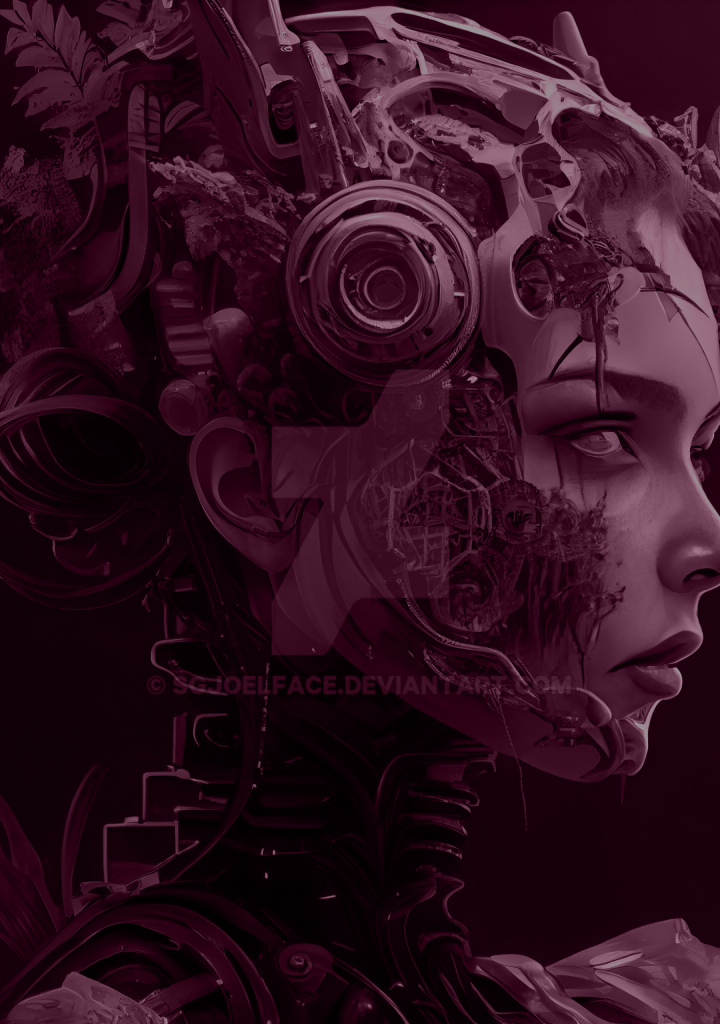
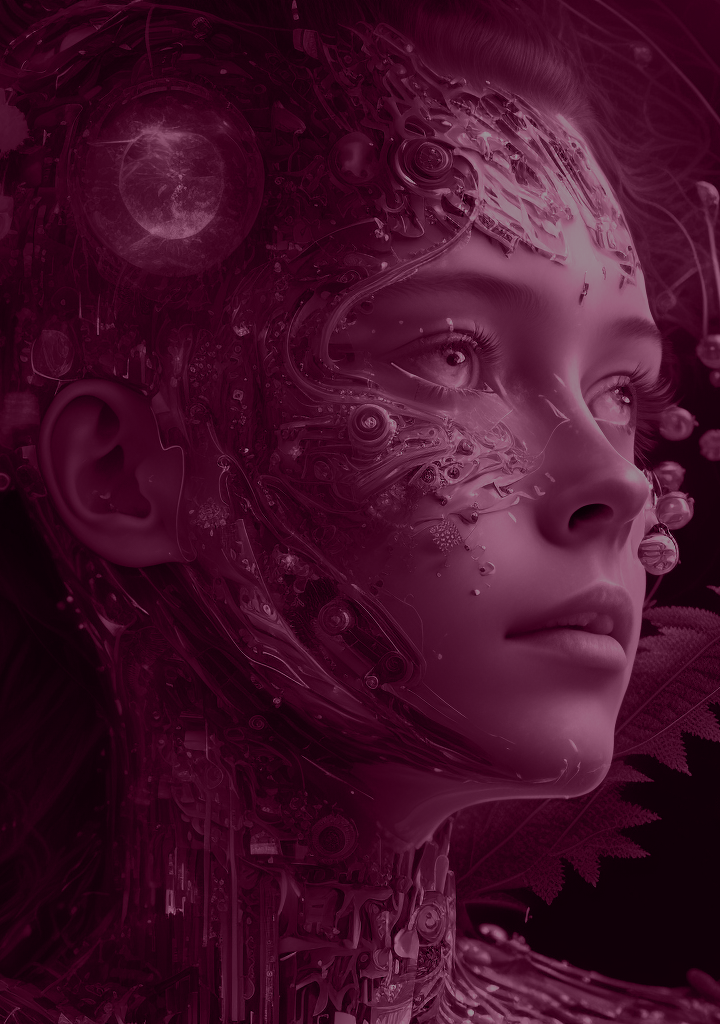
change bg img and fix navbar width in desktop

diff --git a/src/Sections/Hero/Hero.scss b/src/Sections/Hero/Hero.scss
@@ -22,10 +22,19 @@
     z-index: 10;
     margin-top: -9.9rem;
 
-    background-image: url("../../assets/images/hero__main__bg.png");
-    background-position: right bottom;
-    background-size: cover;
+    background-image: linear-gradient(0deg, rgba(0, 0, 0, 0.4), rgba(0, 0, 0, 0.4)),
+        linear-gradient(0deg, #6b0938, #6b0938), url("../../assets/images/hero__main__bg.png");
+    background-blend-mode: multiply, color, normal;
+
+    background-position: left;
     background-repeat: no-repeat;
+    background-size: 70% 100%;
+
+    @include bp(tablet) {
+        background-position: right bottom;
+        background-size: cover;
+        background-repeat: no-repeat;
+    }
 }
 
 // .rgrid {

diff --git a/src/components/navbar/Navbar.scss b/src/components/navbar/Navbar.scss
@@ -17,7 +17,7 @@ $primary-font-color: #ffffff;
   z-index: 999;
 
   @include bp(desktop) {
-    left: 1%;
+    // left: 1%;
   }
 
   .navbar__sub {
